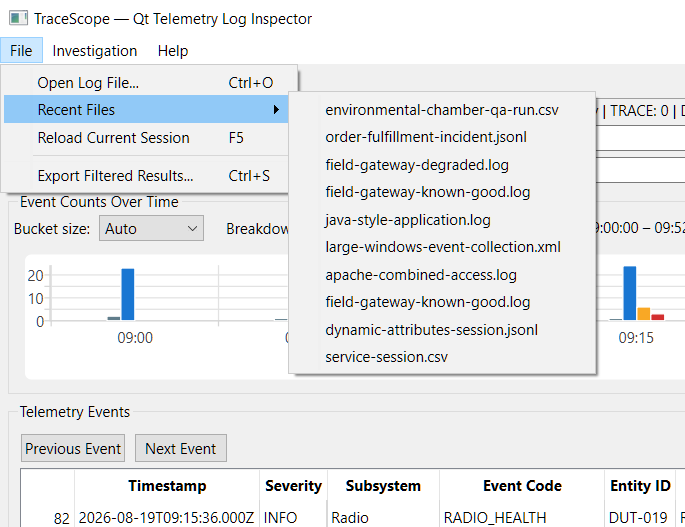
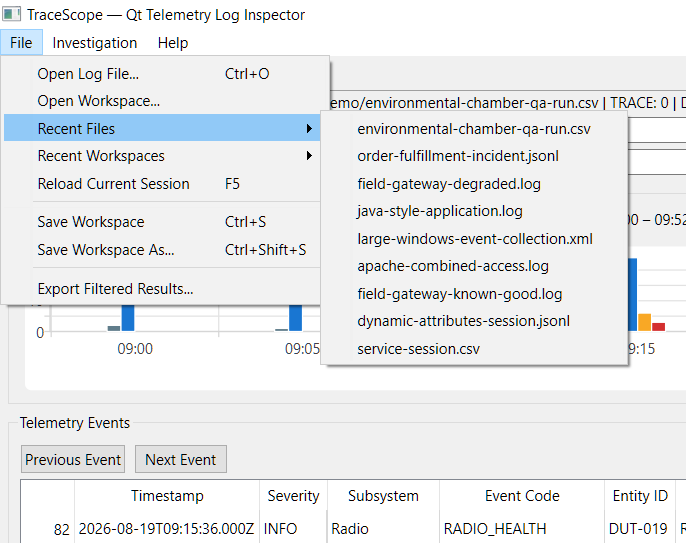
Prepare v0.14.0 prerelease

diff --git a/docs/expansion-roadmap.md b/docs/expansion-roadmap.md
@@ -38,7 +38,7 @@ The project should be evaluated against the tools its intended users may already
 
 Format breadth is an enabling capability rather than the primary product differentiator. TraceScope should support a practical set of representative structured and operational log families plus reusable configurable import profiles. Additional formats should be added only when they materially reduce friction for the intended audience or reuse existing importer architecture at low incremental cost.
 
-Once representative ingestion coverage is established, development priority shifts from format count to investigation depth. Large-file responsiveness, multi-session investigation, advanced filtering and navigation, findings, deterministic analytics, session comparison, persistence, live following, and reporting are expected to provide more target-user value than indefinitely expanding the built-in format list.
+Once representative ingestion coverage is established, development priority shifts from format count to investigation depth. Large-file responsiveness, multi-session investigation, advanced filtering and navigation, findings, deterministic analytics, session comparison, persistence, reporting, and live following are expected to provide more target-user value than indefinitely expanding the built-in format list.
 
 Roadmap evolution should normally substitute, reinterpret, or reprioritize planned work rather than increase the overall project scope. New work should earn its place through demonstrated target-user value, architectural leverage, or replacement of lower-value planned work. The expansion should remain finishable on approximately the scale originally intended.
 
@@ -123,6 +123,7 @@ Completed release milestones:
 | `v0.11.0` | Bookmarks, Notes, and Findings | prerelease |
 | `v0.12.0` | Analytics and Burst Detection | prerelease |
 | `v0.13.0` | Session Comparison | prerelease |
+| `v0.14.0` | Workspace and Profile Persistence | prerelease |
 
 Release assets follow a consistent naming convention:
 
@@ -159,7 +160,7 @@ The `v0.2.0` implementation includes typed severity parsing, ISO timestamp parsi
 
 ## Import Architecture
 
-Implemented foundations through `v0.13.0`:
+Implemented foundations through `v0.14.0`:
 
 * flexible investigation records with optional canonical fields and preserved source data
 * structured import results and diagnostics
@@ -207,12 +208,20 @@ Implemented foundations through `v0.13.0`:
 * Auto and Manual burst timing modes with analyst-controlled thresholds
 * burst drill-down that narrows time/severity context without discarding unrelated active filters
 * realistic fictional investigation samples spanning business-application incidents, engineering QA runs, and known-good/degraded field-support captures
+* local workspace save/open using versioned human-readable JSON, with session source paths and complete import-profile context preserved for reproducible re-import
+* persistence of bookmarks, analyst notes, finding status, active filters, and investigation/comparison presentation state across application restarts
+* immutable comparison-snapshot persistence that remains independent of later source-session filtering, reload, closure, or missing-source recovery
+* restoration of workspace document order, active documents, detached document groups, detached-window geometry/maximized state, and primary-window geometry/state
+* staged workspace restoration that leaves the currently open workspace untouched until recoverable source imports complete successfully
+* missing-source recovery with locate, skip-session, and cancel-open choices so unavailable source files do not force unrelated persisted investigation state to be discarded
+* persistent recent-workspace history alongside recent files and profiles, including stale-path cleanup and reopening through the normal workspace-loading path
+* workspace serialization round-trip and compatibility coverage for versioned schemas and later-added optional presentation/layout fields
 
 Reusable import profiles are versioned, human-readable JSON so mappings can be reused, shared, and committed alongside the applications that produce the logs. The desktop workflow now exposes those profile and preview services directly while keeping import behavior explicit and reproducible.
 
 Importers are registered internally. An external binary plugin ecosystem is not part of the initial expansion.
 
-Phase 6 established the representative ingestion baseline in `v0.7.0`. Phase 7 then shifted attention from format breadth to responsiveness and investigation scalability. The `v0.8.0` release keeps supported imports responsive through background parsing, progress/cancellation behavior, large-structured-document preview safeguards, and timeline scaling work. Phase 8 completed the transition from a single replaceable investigation to a multi-session workspace in `v0.9.0`. Phase 9 completed the advanced filtering, preset, navigation, and drill-down workflow in `v0.10.0`. Phase 10 added bookmarks, notes, finding status, findings review, and source navigation in `v0.11.0`. Phase 11 completed deterministic analytics, subsystem/severity trend presentation, adaptive cadence analysis, and configurable burst detection in `v0.12.0`. Phase 12 completed structured session comparison, generalized detachable workspace documents, and the responsive hardening needed to make those documents practical in split-screen and portrait layouts in `v0.13.0`. Phase 13 is now active and shifts the next increment toward local workspace persistence so investigations, annotations, comparisons, and workspace organization can survive application restarts; later phases continue with live following, reporting, and final UI/documentation hardening rather than returning to open-ended format expansion.
+Phase 6 established the representative ingestion baseline in `v0.7.0`. Phase 7 then shifted attention from format breadth to responsiveness and investigation scalability. The `v0.8.0` release keeps supported imports responsive through background parsing, progress/cancellation behavior, large-structured-document preview safeguards, and timeline scaling work. Phase 8 completed the transition from a single replaceable investigation to a multi-session workspace in `v0.9.0`. Phase 9 completed the advanced filtering, preset, navigation, and drill-down workflow in `v0.10.0`. Phase 10 added bookmarks, notes, finding status, findings review, and source navigation in `v0.11.0`. Phase 11 completed deterministic analytics, subsystem/severity trend presentation, adaptive cadence analysis, and configurable burst detection in `v0.12.0`. Phase 12 completed structured session comparison, generalized detachable workspace documents, and the responsive hardening needed to make those documents practical in split-screen and portrait layouts in `v0.13.0`. Phase 13 completed local workspace persistence in `v0.14.0`, allowing source/profile context, investigation state, immutable comparison snapshots, document organization, and detached-window layouts to survive application restarts with explicit missing-source recovery. Phase 14 is now active and completes the current investigation workflow with reporting and export before Phase 15 extends the same file-oriented model to live-followed sessions and future live comparisons. Final UI/documentation hardening remains reserved for Phase 16 rather than returning to open-ended format expansion.
 
 ## Development Phases
 
@@ -542,7 +551,7 @@ Completed deliverables:
 
 Added local investigation state tied to stable record identities so engineers can preserve what they discovered while working through QA failures, field-support packages, engineering test results, and other diagnostic sessions.
 
-The completed workflow turns transient navigation into a lightweight in-session investigation record without introducing a collaborative backend, ticketing system, or account model. Disk-backed persistence remains intentionally deferred to Phase 13.
+The completed workflow turns transient navigation into a lightweight in-session investigation record without introducing a collaborative backend, ticketing system, or account model. Disk-backed workspace persistence was subsequently completed in Phase 13.
 
 Completed deliverables:
 
@@ -647,33 +656,72 @@ Completed deliverables:
 
 ### Phase 13 — Workspace and Profile Persistence
 
-**Status: In progress; targeted for `v0.14.0`.**
+**Status: Completed in `v0.14.0`.**
 
-Allow investigations to be saved and reopened locally so a useful multi-session workspace does not disappear when the application closes.
+Added local workspace persistence so a useful multi-session investigation can be saved, closed, and resumed without rebuilding its source configuration, annotations, filters, comparison documents, or workspace organization.
 
-Persistence should preserve the local, reproducible nature of TraceScope and should let users resume a real investigation with its source sessions, annotations, filters, comparison documents, and workspace organization intact. The saved format should retain enough import-profile context to reopen sessions reproducibly without introducing a database, account system, or hosted backend.
+Persistence preserves the local, reproducible nature of TraceScope. Saved workspaces retain the source and import-profile context required to re-import sessions, while persisted investigation state and immutable comparison snapshots remain explicit local data rather than introducing a database, account system, or hosted backend.
+
+Completed deliverables:
+
+* loaded-session persistence with source paths and complete import-profile context required to reopen each investigation
+* bookmark persistence keyed by stable record identity
+* analyst-note persistence keyed by stable record identity
+* finding-status persistence keyed by stable record identity
+* active per-session filter-state persistence within saved workspaces
+* investigation presentation-state persistence across event tables, selected records, detail/review/analytics panels, timeline/burst presentation, splitters, scroll positions, and other resumable session-view state
+* open comparison-document persistence that preserves immutable Baseline → Comparison snapshot meaning rather than depending on live source-session state
+* comparison-document presentation persistence including restored scroll position
+* workspace document ordering, per-group current-document state, and global active-document restoration
+* detached-workspace grouping and window-state restoration for side-by-side investigation layouts
+* primary-window geometry and maximized-state restoration alongside detached workspace windows
+* versioned, human-readable JSON workspace schemas with compatibility handling for later-added optional fields
+* staged workspace opening that does not replace the currently open investigation until all recoverable source sessions have imported successfully
+* clear missing-source handling with Locate File, Skip Session, and Cancel Open Workspace choices so one unavailable source does not silently discard unrelated recoverable workspace state
+* preservation of immutable comparison snapshots even when one of their original source sessions is unavailable and skipped during workspace restoration
+* atomic workspace saving through `QSaveFile`
+* application-wide Open Log/Save Workspace/Save Workspace As shortcuts so those application-level commands remain available while detached TraceScope windows are focused
+* bounded, deduplicated recent-workspace history for successfully opened or saved workspaces, stored locally alongside recent-file and recent-profile history
+* serialization round-trip and backward-compatibility tests for workspace/session/comparison persistence and presentation/layout state
+* local full-suite and manual workspace-restoration regression verification
+* `v0.14.0` prerelease publication
+
+Persistence uses local, versioned JSON. A database remains unnecessary for the current offline workspace model.
+
+### Phase 14 — Reporting and Export
+
+**Status: In progress; targeted for `v0.15.0`.**
+
+Expand investigation output beyond the existing investigation-record CSV workflow so findings, deterministic analysis, comparison results, and supporting evidence can leave TraceScope and be shared with other engineers, QA, field support, or downstream issue/documentation workflows.
+
+Reporting should complete the existing investigation workflow rather than become a configurable report designer or collaborative case-management system. Exported reports should be deterministic, self-contained, and understandable without requiring TraceScope or a hosted backend.
+
+Report generation should capture immutable export state at the moment export begins. Generated output must not depend on mutable widgets or later changes to an investigation, and this capture boundary should remain valid when Phase 15 introduces live-followed sessions and potentially continuously updating live comparisons.
 
 Planned deliverables:
 
-* loaded-session persistence with the source and import-profile context required to reopen each investigation
-* bookmark persistence
-* note persistence
-* finding-status persistence
-* active per-session filter-state persistence within saved workspaces
-* open comparison-document persistence that preserves immutable Baseline → Comparison snapshot meaning rather than depending on live source-session state
-* workspace document ordering and active-document restoration
-* detached-workspace grouping and window-state restoration sufficient to resume side-by-side investigation layouts
-* versioned workspace schemas
-* clear missing-source handling that preserves the rest of a recoverable workspace instead of silently discarding unrelated investigation state
-* serialization round-trip and compatibility tests
+* selected-record copy as structured JSON
+* selected-record copy as formatted human-readable text
+* structured findings export suitable for downstream QA, issue-tracking, spreadsheet, or documentation workflows
+* offline HTML investigation reports that summarize source/session context, investigation findings, deterministic analytics, burst analysis when available, and relevant supporting records without claiming automated diagnosis
+* offline HTML comparison reports that preserve explicit Baseline → Comparison orientation, source context, comparison settings, and deterministic comparison results
+* explicit report-generation timestamps and captured record/time-span context so exported output has a stable point-in-time meaning
+* immutable report/export models separated from live investigation and presentation widgets
+* deterministic, capability-aware omission or unavailable-state handling when a report dimension is not supported by the underlying source data
+* automated coverage for report-model capture, escaping/serialization, deterministic output, and representative investigation/comparison exports
+* local full-suite and UI regression verification
 
-Persistence will use local, versioned JSON unless later requirements demonstrate a practical need for a database.
+HTML reporting should remain offline and self-contained. Browser printing may provide a practical PDF path without introducing a dedicated PDF-generation dependency unless later requirements demonstrate a clear need.
 
-### Phase 14 — Live File Following
+### Phase 15 — Live File Following
 
 Support files that are actively receiving appended records so TraceScope can be used during application runs, QA execution, simulations, engineering tests, and other situations where investigators need to observe a diagnostic log as it grows.
 
 Live following should extend the existing investigation model rather than create a separate monitoring product. TraceScope will remain file-oriented and offline rather than becoming a centralized collection service.
+
+The existing Phase 12/13 comparison documents remain immutable comparison snapshots: they preserve the meaning of a Baseline → Comparison analysis at the time it was created and can survive later source-session reload, closure, or workspace restoration. Live following introduces a separate need for comparisons that can update as their source sessions receive appended records. Phase 15 should evaluate that behavior explicitly rather than silently changing existing snapshot semantics.
+
+A likely model is to keep immutable comparison snapshots as stable evidence while allowing a live comparison document to reference active sessions, recompute as new records arrive, and be frozen into an immutable comparison snapshot for persistence, reporting, or later review. The exact live-comparison UI and comparison-window semantics should be finalized during Phase 15 implementation, including how unequal observed record counts or timestamp coverage are communicated.
 
 Planned deliverables:
 
@@ -685,19 +733,9 @@ Planned deliverables:
 * file-replacement handling
 * live summaries
 * live filtering
-
-### Phase 15 — Reporting and Export
-
-Expand investigation output beyond the existing investigation-record CSV workflow so useful findings can leave TraceScope and be shared with other engineers, QA, field support, or downstream issue/documentation workflows.
-
-Reporting should summarize and preserve investigation results rather than attempt to become a collaborative case-management system.
-
-Planned deliverables:
-
-* findings export
-* selected-record copy as JSON
-* selected-record copy as formatted text
-* offline HTML investigation reports
+* explicit live-session state that remains compatible with the existing investigation model and persistence/report capture boundaries
+* evaluation and implementation of continuously updating Baseline → Comparison behavior for live-followed sessions without weakening immutable comparison-snapshot semantics
+* ability to capture/freeze a live comparison into a stable immutable comparison snapshot if the live-comparison workflow is implemented
 
 ### Phase 16 — Final UI Polish, Documentation, and 1.0 Release
 
@@ -705,12 +743,12 @@ Complete the expansion with final UI polish, polished documentation, and a stabl
 
 The foundational constrained-layout work originally planned for this phase was pulled forward and completed during Phase 12 because detachable workspace documents make side-by-side and portrait-oriented use part of the normal investigation workflow rather than a final-release edge case. Phase 16 should build on that responsive foundation instead of reimplementing it.
 
-Final documentation should make the supported-format boundary, optional canonical-field model, profile-driven import architecture, large-file behavior, multi-session and comparison workflows, persistence behavior, live-following boundary, reporting capabilities, and scope exclusions clear enough that prospective users can decide whether TraceScope fits their workflow. Employer-facing material should remain secondary to that product clarity while still making the architecture, testing, CI/release discipline, and conservative engineering decisions directly verifiable.
+Final documentation should make the supported-format boundary, optional canonical-field model, profile-driven import architecture, large-file behavior, multi-session and comparison workflows, persistence behavior, reporting capabilities, live-following boundary, and scope exclusions clear enough that prospective users can decide whether TraceScope fits their workflow. Employer-facing material should remain secondary to that product clarity while still making the architecture, testing, CI/release discipline, and conservative engineering decisions directly verifiable.
 
 Planned deliverables:
 
 * final cross-workflow UI consistency and small visual cleanup across features completed in earlier phases
-* responsive regression verification for the final persistence, live-following, and reporting surfaces introduced after the Phase 12 hardening pass
+* responsive regression verification for the final persistence, reporting, and live-following surfaces introduced after the Phase 12 hardening pass
 * representative full-width, horizontally split, and portrait-layout regression verification before `v1.0.0`
 * final Windows and Linux distributables
 * automated release packaging

diff --git a/README.md b/README.md
@@ -6,7 +6,7 @@ TraceScope is a native C++/Qt desktop application for investigating file-based t
 
 TraceScope imports multiple structured and operational log formats and uses reusable import profiles to map source fields into a common investigation model. Timestamp, severity, subsystem, event code, entity ID, and message are optional canonical fields rather than a required fixed schema. Source-specific values and raw records remain available alongside normalized data.
 
-Once a source is loaded, investigators can combine canonical and custom-field filters, search and navigate records, inspect timeline and trend views, review deterministic event-code/entity analytics, detect explainable warning/error bursts, preserve bookmarks, notes, and finding states, keep multiple sessions open, detach or re-dock workspace documents, compare complete sessions, and export the currently visible investigation to CSV.
+Once a source is loaded, investigators can combine canonical and custom-field filters, search and navigate records, inspect timeline and trend views, review deterministic event-code/entity analytics, detect explainable warning/error bursts, preserve bookmarks, notes, and finding states, keep multiple sessions open, detach or re-dock workspace documents, compare complete sessions, save and reopen the investigation workspace, and export the currently visible investigation to CSV.
 
 TraceScope is intentionally file-oriented and offline. It does not claim to automatically understand every arbitrary log format, diagnose root cause, replace centralized observability systems, or guarantee a fixed maximum file size. Import and analysis behavior stays explicit, testable, and reproducible.
 
@@ -16,19 +16,19 @@ TraceScope is intentionally file-oriented and offline. It does not claim to auto
 
 Portable packages are published through [GitHub Releases](https://github.com/w-cook/tracescope-qt-log-inspector/releases).
 
-The current release is **`v0.13.0`**:
+The current release is **`v0.14.0`**:
 
 ```text
-TraceScope-v0.13.0-windows-x64.zip
-TraceScope-v0.13.0-linux-x86_64.AppImage
-TraceScope-v0.13.0-samples.zip
+TraceScope-v0.14.0-windows-x64.zip
+TraceScope-v0.14.0-linux-x86_64.AppImage
+TraceScope-v0.14.0-samples.zip
 ```
 
-Historical `v0.1.0` through `v0.12.0` prereleases remain available as earlier development milestones.
+Historical `v0.1.0` through `v0.13.0` prereleases remain available as earlier development milestones.
 
 ### Windows
 
-1. Download `TraceScope-v0.13.0-windows-x64.zip`.
+1. Download `TraceScope-v0.14.0-windows-x64.zip`.
 2. Extract the complete ZIP.
 3. Launch `TraceScope.exe`.
 4. Open a file from the included `samples` directory or choose one of your own supported log files.
@@ -37,24 +37,31 @@ The package includes the required Qt libraries, plugins, MinGW runtime dependenc
 
 ### Linux
 
-1. Download `TraceScope-v0.13.0-linux-x86_64.AppImage`.
+1. Download `TraceScope-v0.14.0-linux-x86_64.AppImage`.
 2. Make it executable:
 
 ```bash
-chmod +x TraceScope-v0.13.0-linux-x86_64.AppImage
+chmod +x TraceScope-v0.14.0-linux-x86_64.AppImage
 ```
 
 3. Launch it:
 
 ```bash
-./TraceScope-v0.13.0-linux-x86_64.AppImage
+./TraceScope-v0.14.0-linux-x86_64.AppImage
 ```
 
 ### Samples Only
 
-`TraceScope-v0.13.0-samples.zip` provides a platform-neutral copy of the repository samples and reusable import profiles.
+`TraceScope-v0.14.0-samples.zip` provides a platform-neutral copy of the repository samples and reusable import profiles.
 
 Qt, Qt Creator, CMake, Git, and a local compiler are not required to run the packaged applications.
+
+## Documentation
+
+- [Feature Screenshot Gallery](docs/feature-screenshot-gallery.md) — visual walkthrough of import, investigation, analytics, findings, session comparison, detachable workspaces, responsive layouts, large-file behavior, recent files/workspaces, and export workflows
+- [Expansion Roadmap](docs/expansion-roadmap.md) — product direction, completed milestones, active development, release discipline, and scope boundaries
+- [Performance Notes](docs/performance.md) — measured large-file scenarios, methodology, environment, and interpretation limits
+- [Original Prototype Plan](docs/original-prototype-plan.md) — historical plan for the initial focused JSON Lines inspector
 
 ## Core Investigation Workflow
 
@@ -94,13 +101,13 @@ Burst detection is deterministic and explainable. It is **not** presented as AI 
 
 Records can be bookmarked, annotated with multiline analyst notes, and classified as Open, Resolved, or Dismissed findings. The Findings review panel summarizes the investigation record and supports direct navigation back to the exact preserved source record.
 
-Applicable bookmark, note, and finding state survives in-place reloads when stable record identities remain present. Saving and reopening that investigation state across application restarts is the active Phase 13 workspace-persistence focus.
+Applicable bookmark, note, and finding state survives in-place reloads when stable record identities remain present. Saved workspaces also preserve that investigation state across application restarts when the corresponding source records can be restored.
 
 ![TraceScope Findings Review](docs/screenshots/tracescope-findings.png)
 
 ### Work Across Related Sessions
 
-Multiple imported sources can remain open as independent investigation sessions. Each session retains its source/profile context, filters, controller state, timeline/analytics presentation state, bookmarks, notes, findings, and reload behavior. Investigation and comparison documents can be reordered, detached into independent workspace windows, moved between detached windows, and re-docked into the main workspace. Narrow layouts adapt for horizontally split and portrait-oriented use instead of requiring a wide desktop window.
+Multiple imported sources can remain open as independent investigation sessions. Each session retains its source/profile context, filters, controller state, timeline/analytics presentation state, bookmarks, notes, findings, and reload behavior. Investigation and comparison documents can be reordered, detached into independent workspace windows, moved between detached windows, and re-docked into the main workspace. Saved workspaces restore sessions, comparison snapshots, document ordering, active-document state, and detached-window organization so a multi-session investigation can be resumed after restarting TraceScope. Narrow layouts adapt for horizontally split and portrait-oriented use instead of requiring a wide desktop window.
 
 ![TraceScope Multi-Session Workspace](docs/screenshots/tracescope-multi-session-workspace.png)
 
@@ -113,6 +120,8 @@ The comparison view prioritizes meaningful differences in event codes, severity,
 ### Export the Current Investigation
 
 The CSV export workflow writes the currently visible records using readable canonical headers and configured custom-field names. Filtering before export makes it possible to hand off only the records relevant to a finding or investigation path.
+
+**Phase 14 — Reporting and Export is in progress, targeted for `v0.15.0`.** The phase expands this handoff workflow with findings export, selected-record copy as JSON and formatted text, and offline HTML reports for investigations and comparison snapshots. Reporting is being designed around immutable point-in-time capture so exported output remains stable and can later support mutable live-following sessions or live comparisons without changing already-generated reports.
 
 ## Supported Formats and Profiles
 
@@ -131,7 +140,7 @@ Different source formats need different amounts of configuration. TraceScope kee
 | Structured XML | Nested elements, attributes, repeated elements, record paths, and raw XML preservation |
 | Windows Event XML | Uses the XML importer with Windows Event detection, presets, severity aliases, and named `EventData` fields |
 
-Windows Event XML support covers XML-formatted events and collections. Native binary `.evtx` ingestion is not part of `v0.13.0`.
+Windows Event XML support covers XML-formatted events and collections. Native binary `.evtx` ingestion is not part of `v0.14.0`.
 
 ### Canonical Investigation Fields
 
@@ -249,7 +258,9 @@ See [Performance Notes](docs/performance.md) for methodology, environment, scena
 - Reload sessions in place while preserving the existing session unchanged when a reload is cancelled
 - Reorder investigation and comparison documents, detach them into independent workspace windows, move documents between detached windows, and re-dock them into the main workspace
 - Keep workspace documents usable in horizontally split and portrait-oriented layouts through responsive summaries, filters, review panels, selected-event controls, tables, and fine-resolution timeline windows
-- Maintain bounded, deduplicated recent-file and recent-profile history in local application settings and reopen recent files through Import Configuration
+- Save and reopen versioned local JSON workspaces with source/import-profile context, bookmarks, notes, finding state, active filters, session presentation state, immutable comparison snapshots, document ordering, active-document state, and main/detached window layout
+- Recover workspaces with missing source files by locating moved sources or skipping unavailable sessions without discarding unrelated recoverable workspace state
+- Maintain bounded, deduplicated recent-file, recent-profile, and recent-workspace history in local application settings; reopen recent files through Import Configuration and recent workspaces through the workspace-restoration workflow
 - Create comparisons with explicit Baseline and Comparison selection, including an orientation swap before creation
 - Compare complete imported-session snapshots rather than current filtered views, so later filter changes do not alter comparison meaning
 - Preserve created comparisons as immutable documents even if a source session is later reloaded or closed
@@ -268,13 +279,6 @@ See [Performance Notes](docs/performance.md) for methodology, environment, scena
 - Build and test on Windows and Linux through GitHub Actions
 - Produce portable Windows x64, Linux AppImage, and platform-neutral samples packages
 - Verify representative packaged samples and smoke-test packaged Windows and Linux applications in CI
-
-## Documentation
-
-- [Feature Screenshot Gallery](docs/feature-screenshot-gallery.md) — visual walkthrough of import, investigation, analytics, findings, session comparison, detachable workspaces, responsive layouts, large-file behavior, recent-file, and export workflows
-- [Expansion Roadmap](docs/expansion-roadmap.md) — product direction, completed milestones, active development, release discipline, and scope boundaries
-- [Performance Notes](docs/performance.md) — measured large-file scenarios, methodology, environment, and interpretation limits
-- [Original Prototype Plan](docs/original-prototype-plan.md) — historical plan for the initial focused JSON Lines inspector
 
 ## Development Status
 
@@ -296,12 +300,15 @@ Implemented expansion milestones:
 | `v0.11.0` | Session-local bookmarks, analyst notes, finding status, findings review, bookmark/finding filtering, and source-record navigation |
 | `v0.12.0` | Deterministic event-code/entity analytics, subsystem/severity trends, adaptive cadence, configurable burst detection, and analytics drill-down |
 | `v0.13.0` | Directional session comparison, immutable comparison snapshots, detachable multi-window workspace documents, and constrained-layout hardening |
+| `v0.14.0` | Versioned local workspace persistence, session/investigation restoration, immutable comparison persistence, document/window layout restoration, missing-source recovery, and recent workspace history |
 
-The current release is **`v0.13.0`**.
+The current release is **`v0.14.0`**.
 
-**Phase 13 — Workspace and Profile Persistence is in active development, targeted for `v0.14.0`.** It focuses on saving and reopening local multi-session workspaces with source/profile context, investigation state, comparison documents, document ordering, and detached-window organization intact.
+**Phase 14 — Reporting and Export is in active development, targeted for `v0.15.0`.** It expands investigation handoff beyond visible-record CSV with findings export, selected-record copy workflows, and offline HTML investigation/comparison reports built from immutable point-in-time report state.
 
-Later phases cover live file following, reporting/export expansion, final UI polish and documentation, and the stable `v1.0.0` release.
+Phase 15 then extends the file-oriented investigation model with live file following. Its design will preserve the existing immutable comparison snapshots while considering live comparisons that update with active source sessions and can be frozen into stable snapshots for persistence or reporting.
+
+Phase 16 completes final UI polish, documentation, packaging, and the stable `v1.0.0` release.
 
 Planned capabilities are not presented as implemented until their corresponding phases are completed and verified.
 
@@ -401,7 +408,7 @@ cmake --build build --parallel
 ctest --test-dir build --output-on-failure
 ```
 
-The Qt Test suite covers the flexible record/import domain, supported importer families, progress/cancellation, profile validation and preview behavior, model/filter coordination, presets, bookmarks and findings, timeline and deterministic analytics, burst detection, CSV export, per-session state and reload behavior, session-comparison analysis and immutable snapshots, comparison-dialog defaults/validation, workspace-document semantics, and recent-item history.
+The Qt Test suite covers the flexible record/import domain, supported importer families, progress/cancellation, profile validation and preview behavior, model/filter coordination, presets, bookmarks and findings, timeline and deterministic analytics, burst detection, CSV export, per-session state and reload behavior, session-comparison analysis and immutable snapshots, comparison-dialog defaults/validation, workspace-document semantics, versioned workspace serialization/restoration, presentation-state persistence, and recent-item history.
 
 The same CTest suite runs in GitHub Actions on Windows and Linux.
 
@@ -409,15 +416,15 @@ The same CTest suite runs in GitHub Actions on Windows and Linux.
 
 The GitHub Actions workflow runs three parallel jobs with read-only repository permissions:
 
-- **Windows x64:** pinned Qt/MinGW Release build, CTest, `windeployqt`, package verification, startup smoke test, and `TraceScope-v0.13.0-windows-x64.zip`
-- **Linux x86_64:** pinned Qt/GCC Release build on Ubuntu 22.04, CTest, `linuxdeploy`, AppImage verification, offscreen startup smoke test, and `TraceScope-v0.13.0-linux-x86_64.AppImage`
-- **Samples:** verifies representative source/profile pairs and packages the complete `samples` directory as `TraceScope-v0.13.0-samples.zip`
+- **Windows x64:** pinned Qt/MinGW Release build, CTest, `windeployqt`, package verification, startup smoke test, and `TraceScope-v0.14.0-windows-x64.zip`
+- **Linux x86_64:** pinned Qt/GCC Release build on Ubuntu 22.04, CTest, `linuxdeploy`, AppImage verification, offscreen startup smoke test, and `TraceScope-v0.14.0-linux-x86_64.AppImage`
+- **Samples:** verifies representative source/profile pairs and packages the complete `samples` directory as `TraceScope-v0.14.0-samples.zip`
 
 Workflow artifacts validate candidate packages. Approved packages are attached permanently to GitHub Releases.
 
 ## Design Goals
 
-TraceScope emphasizes practical native desktop investigation, explicit and reproducible source mapping, preservation of source-specific information, deterministic and explainable analysis, complete-session comparison with explicit semantics, responsive multi-window workflows, offline operation, clear separation between importing, investigation data, presentation, analysis, comparison, and export, testable non-UI logic, conservative product claims, and repeatable cross-platform releases.
+TraceScope emphasizes practical native desktop investigation, explicit and reproducible source mapping, preservation of source-specific information, deterministic and explainable analysis, complete-session comparison with explicit semantics, resumable local workspaces, responsive multi-window workflows, offline operation, immutable capture for persisted comparison/report artifacts, clear separation between importing, investigation data, presentation, analysis, comparison, persistence, and export, testable non-UI logic, conservative product claims, and repeatable cross-platform releases.
 
 ## License
 

diff --git a/docs/feature-screenshot-gallery.md b/docs/feature-screenshot-gallery.md
@@ -114,9 +114,9 @@ Measured large-file behavior and its interpretation limits are documented separa
 
 ![TraceScope Large-File Import](screenshots/tracescope-large-file-import.png)
 
-## Recent Files
+## Recent Files and Workspaces
 
-Bounded recent-file and recent-profile histories are stored in local application settings. Recent files reopen through the normal Import Configuration workflow rather than bypassing profile review and validation.
+Bounded recent-file, recent-profile, and recent-workspace histories are stored in local application settings. Recent files reopen through the normal Import Configuration workflow rather than bypassing profile review and validation, while recent workspaces reopen saved investigations through the workspace-restoration workflow.
 
 ![TraceScope Recent Files](screenshots/tracescope-recent-files.png)
 
